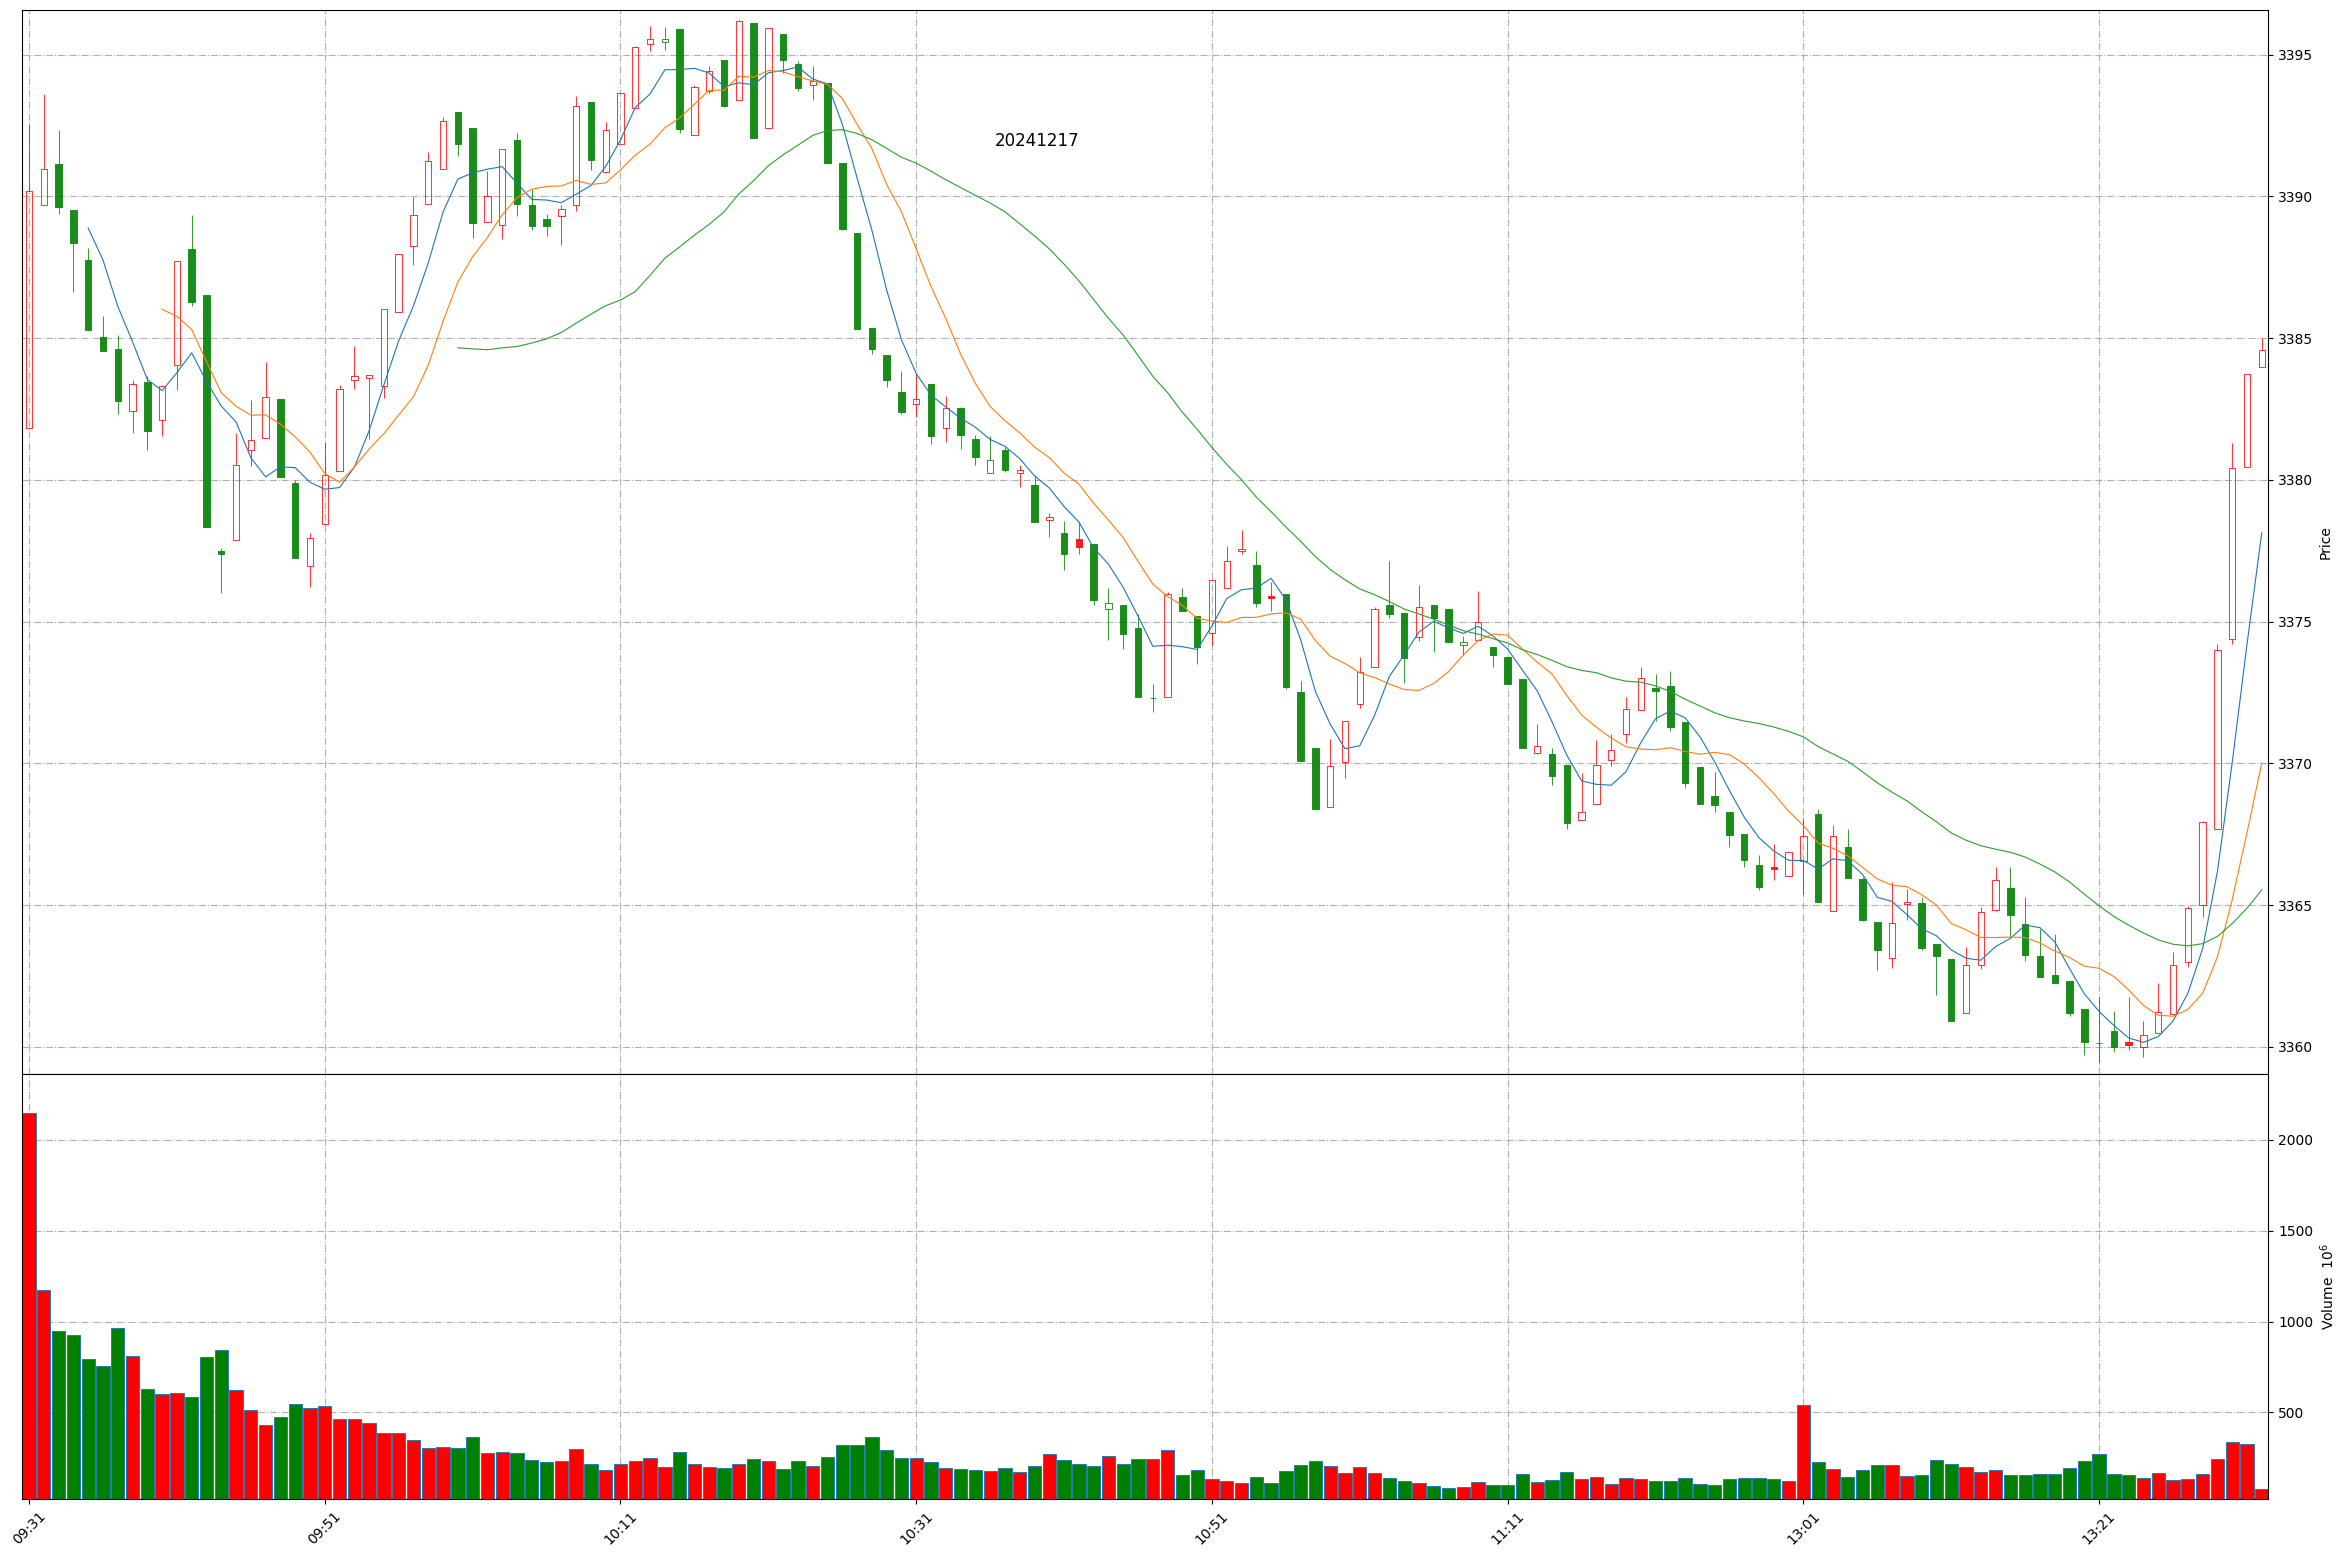
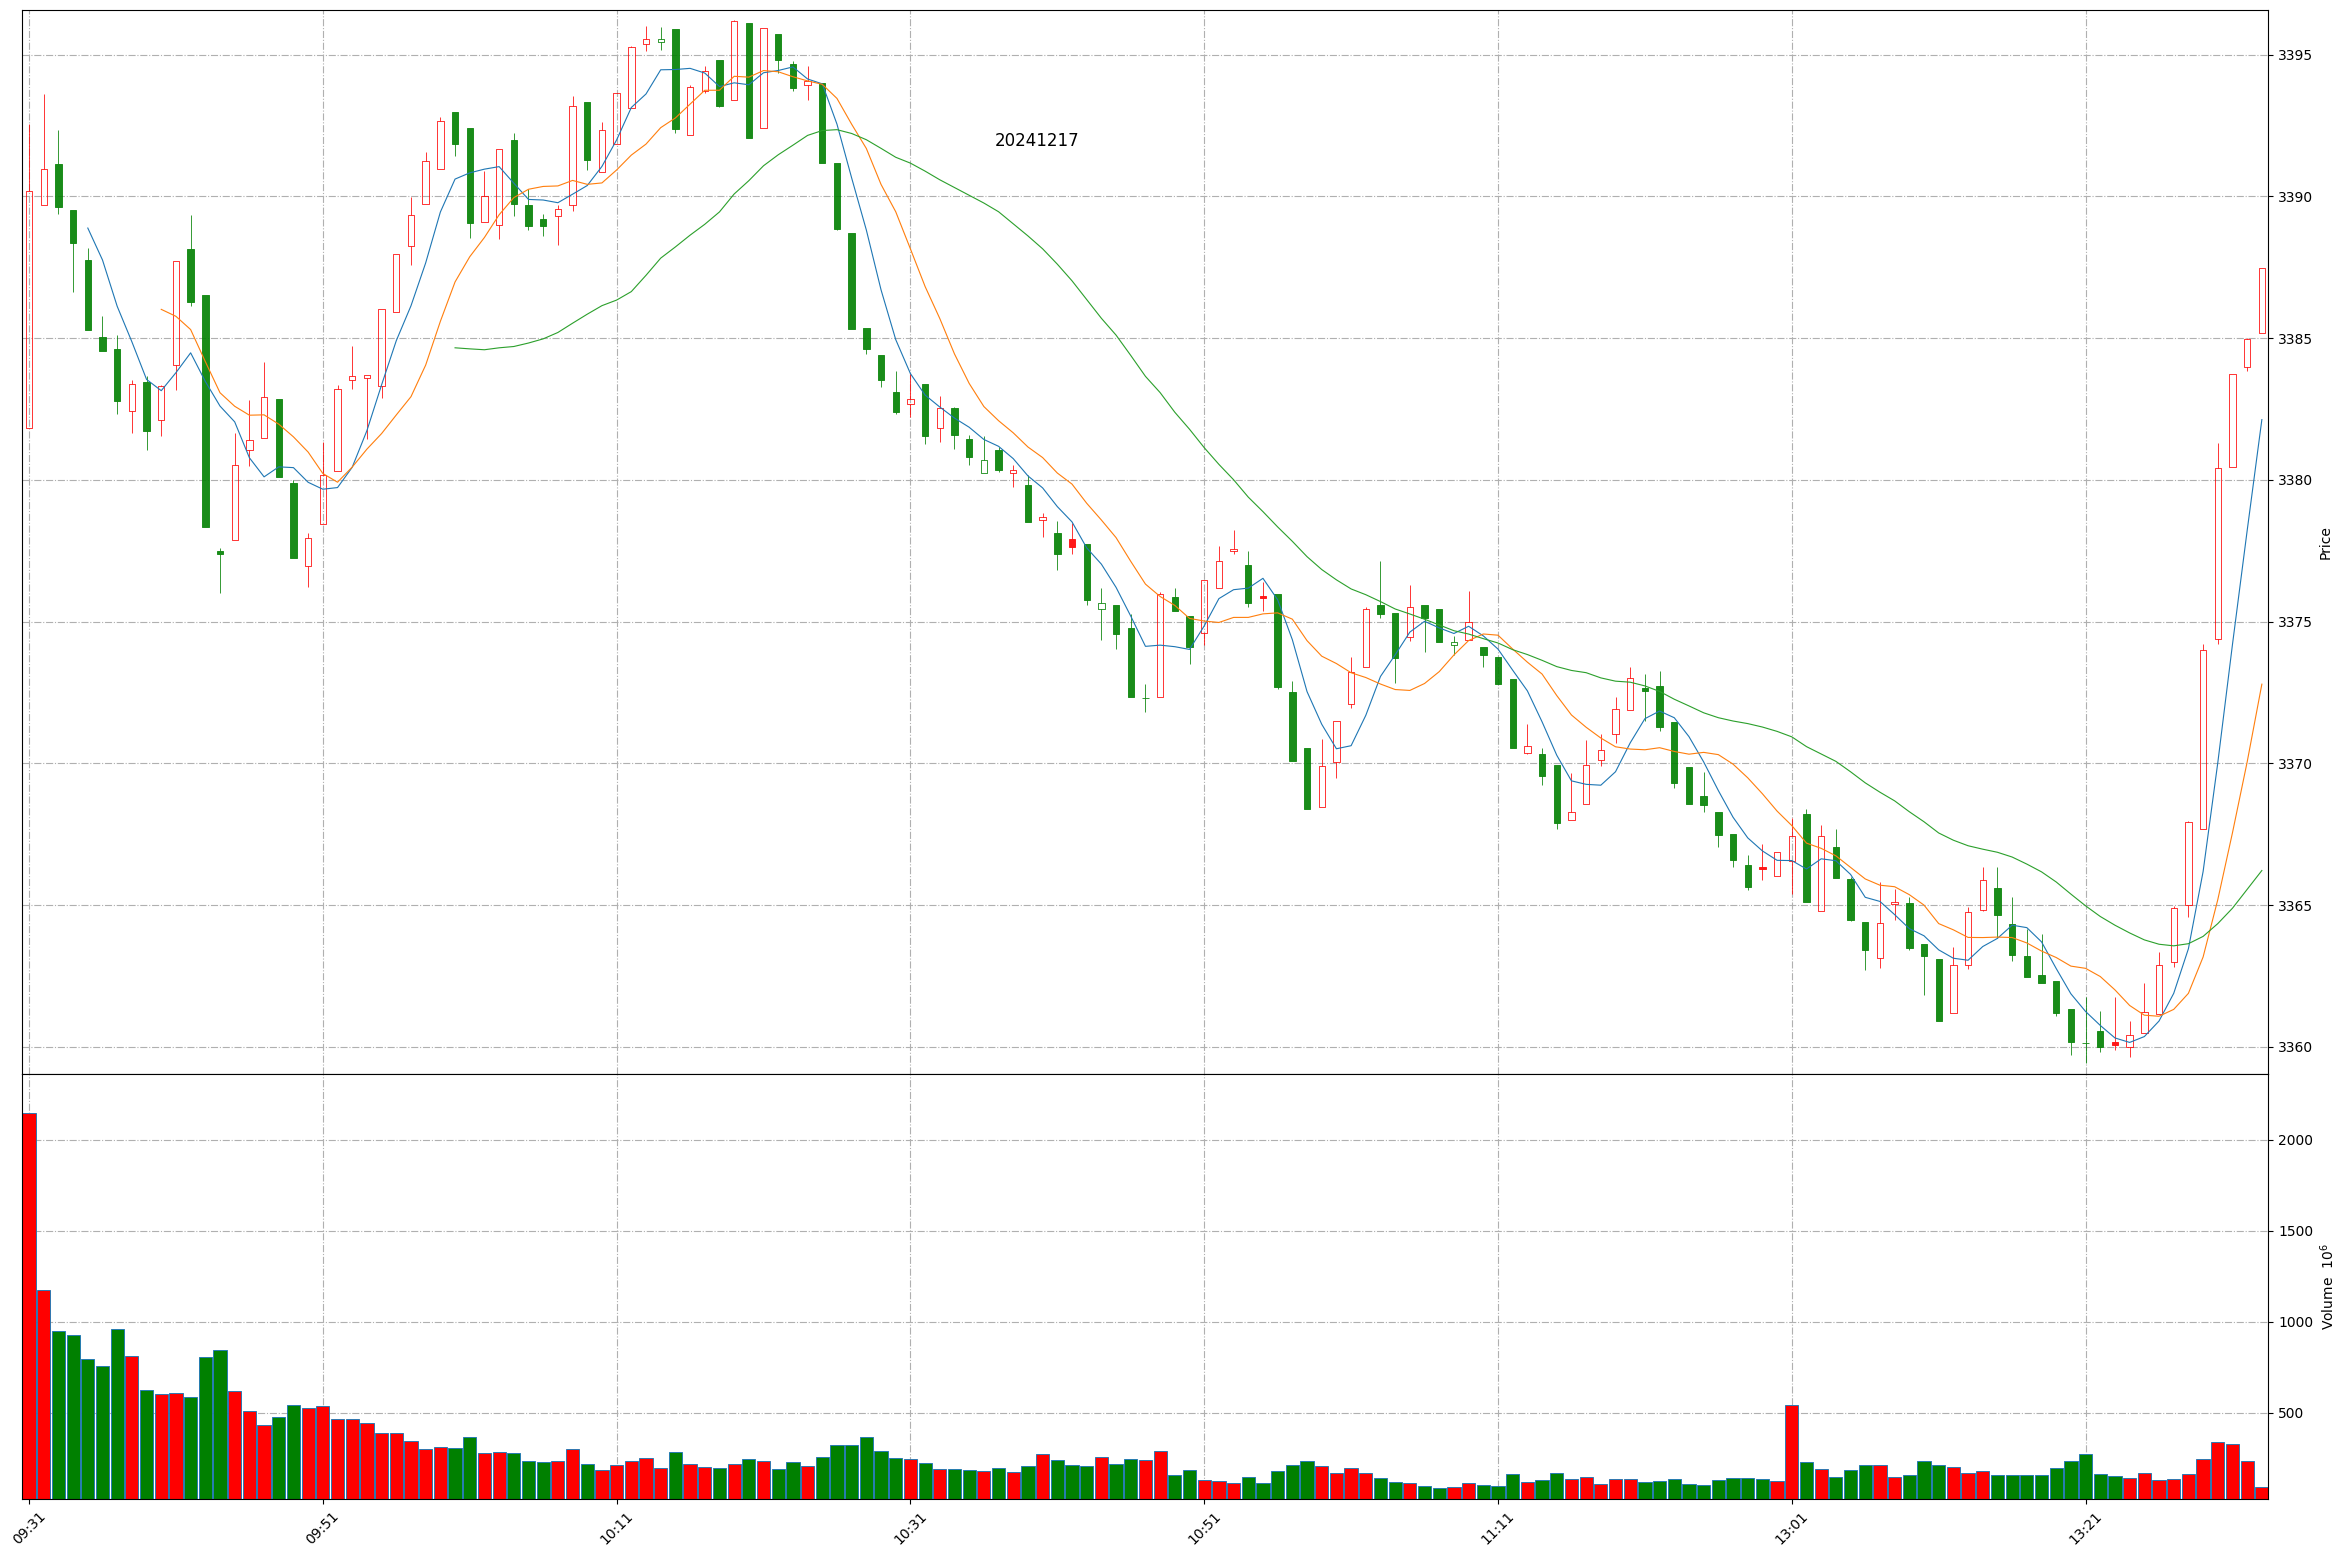
Github action update at 2024-12-17 13:32:35.

diff --git a/README.md b/README.md
@@ -1,11 +1,11 @@
 
 # Daily-A-share-market-quotes 每日 A 股指数（5min 更新）- 20241217
 
-### 上证指数 20241217 13:31
+### 上证指数 20241217 13:32
 ![](./fig/2024/12/20241217-sh000001.png)
 
-### 深证成指 20241217 13:31
+### 深证成指 20241217 13:32
 ![](./fig/2024/12/20241217-sz399001.png)
 
-### 北证50 20241217 13:31
+### 北证50 20241217 13:32
 ![](./fig/2024/12/20241217-bj899050.png)
